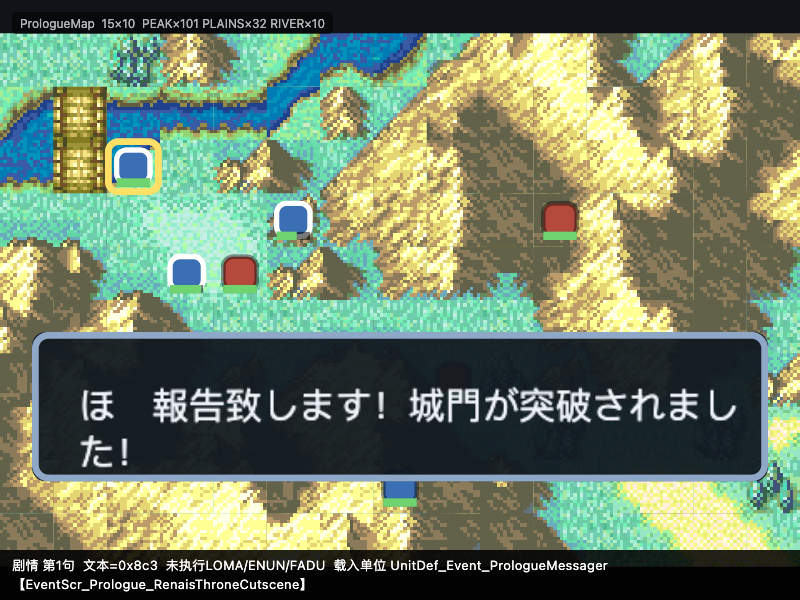
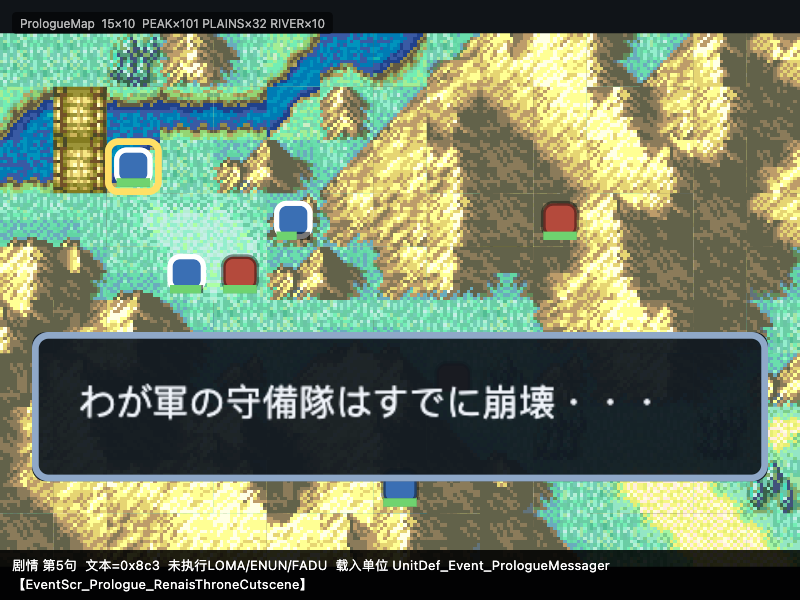
对白分页：原作的对白现在一页一页地演
## 发现问题的过程

截图里序章开场那句对白**只显示两行就被裁掉**，而原文里既没有 `[LF]`
也没有 `[A]` —— 看起来像是引擎的问题。

于是去读反编译项目的 `texts/jp_textdefs.txt` —— **它把控制码的语义也写下来了**：

    [X] = 0     [LF] = 1    [CR] = 2    [A] = 3
    [....] = 4 …  [OpenFarLeft] = 8 …
    [LoadFace] = 16   [ClearFace] = 17   [NormalPrint] = 18 …

`[A]` 是**等玩家按键**，`[CR]` 是**换页**。

再回头看那条消息，它其实**本来就有 `[A]`**：

    [OpenMidLeft][LoadFace][0152]…[OpenMidRight]ほ　報告致します！[A][CloseSpeechSlow]…

**原作是按 `[A]` 分页的。** 我那"一段长文本"是好几页被我一口气画进了两行里。

## 关键：我甚至不知道"分页"是个概念

不是实现错了，是**我不知道有这回事**。直到去读了控制码定义文件。

这和前面几次是同一类：**信息一直都在（反编译项目连控制码语义都写下来了），
我只是没去找。**

## 改法

`GameMessage.pages` —— 按 `[A]` / `[CR]` 把正文切成多页，
每页是纯文字（控制码去掉、`[LF]` 保留为换行）。

`Scene.textShow` 一页一页地 `await onEvent(ShowText(page: ...))`，
每页之后 `await WaitForInput` —— **每一页都要玩家按键**（原作的节奏）。

## 测试（4 条）

    * 序章开场那条消息**不止一页**（就是它撑爆了框）
    * 每一页都不含残留控制码
    * 分页不丢内容（拼起来等于纯文字）
    * `[A]` 与 `[CR]` 都算分页标记

## 验证

截图确认：按 4 次 confirm 后显示**第 5 页**「わが軍の守備隊はすでに崩壊・・・」，
HUD 显示「剧情 第5句  文本=0x8c3」。

（顺带记一个坑：推进对白要用 `confirm`，`dialogue` 在场景已运行时是空操作 ——
第一次截图没变化就是这个原因。）

## 仍未做

`SENQUEUE1` / `DISAX` / `LOMA` / `FADU` 等 9 种指令仍是占位（HUD 里列着），
以及立绘还没接图集。

Changed region(s): [[0.0938, 0.63, 0.9375, 0.78], [0.0625, 0.93, 0.7812, 0.96]]

diff --git a/test/core/scene_script_test.dart b/test/core/scene_script_test.dart
@@ -120,4 +120,58 @@ void main() {
       expect(withDollar.first.plain.contains(r'$0152'), isFalse);
     });
   });
+
+  _pagingGroup();
+}
+
+// ---------------------------------------------------------------------------
+// 分页：FE 的文本用 `[A]`（等按键）/ `[CR]`（换页）把正文切成多页。
+//
+// 我第一版**没有分页**，把整条消息一口气画进两行的框里，
+// 结果只显示前两行、后面全被裁掉。而当时甚至没意识到"分页"是个概念 ——
+// 直到去读反编译项目的 `texts/jp_textdefs.txt`（它把控制码语义也写下来了）。
+// ---------------------------------------------------------------------------
+void _pagingGroup() {
+  group('文本分页', () {
+    late GameTexts texts;
+
+    setUpAll(() {
+      texts = GameTexts.parse(
+          File('tools/pipeline/out/tables/texts.json').readAsStringSync());
+    });
+
+    test('序章开场那条消息**不止一页**（就是它撑爆了框）', () {
+      final m = texts.byId(0x8c3);
+      expect(m, isNotNull);
+      expect(m!.pages.length, greaterThan(1),
+          reason: '这条消息原本就分了好几页 —— 不分页就会溢出');
+    });
+
+    test('每一页都不含控制码，`[LF]` 保留为换行', () {
+      for (final m in texts.messages.values.take(500)) {
+        for (final p in m.pages) {
+          expect(p.contains('['), isFalse, reason: '页里不该残留控制码');
+        }
+      }
+    });
+
+    test('分页不丢内容（拼起来等于纯文字去掉换行）', () {
+      final m = texts.byId(0x8c3)!;
+      final joined = m.pages.join().replaceAll('\n', '');
+      final plain = m.plain.replaceAll('\n', '');
+      expect(joined, plain, reason: '分页只是切分，不该丢字');
+    });
+
+    test('`[A]` 与 `[CR]` 都算分页标记', () {
+      final keys = texts.messages.values
+          .expand((m) => m.segments)
+          .whereType<TextControl>()
+          .where((c) => c.isPageBreak)
+          .map((c) => c.name)
+          .toSet();
+      expect(keys, contains('A'));
+      expect(keys.any((k) => k == 'CR'), isTrue,
+          reason: '应当有 `[CR]`（换页）出现');
+    });
+  });
 }

diff --git a/lib/core/event/game_text.dart b/lib/core/event/game_text.dart
@@ -36,7 +36,11 @@ class TextControl extends TextSegment {
   final int? arg;
 
   /// 渲染层真正需要的语义
+  /// `[A]` —— 等玩家按键。文本里的"这一页结束了"。
   bool get isWaitForKey => name == 'A';
+
+  /// `[CR]` —— 换页（清屏重画）。
+  bool get isPageBreak => name == 'A' || name == 'CR';
   bool get isLineBreak => name == 'LF';
   bool get isLoadFace => name == 'LoadFace';
   bool get isFacePosition => name.startsWith('Open') || name.startsWith('Close');
@@ -66,6 +70,41 @@ class GameMessage {
       .trim();
 
   bool get isEmpty => plain.trim().isEmpty;
+
+  /// **分页**。
+  ///
+  /// FE 的文本是一串控制码：`[A]`（= 3）是"等玩家按键"，`[CR]`（= 2）是
+  /// 换页。一条消息里常常有好几页 —— 序章开场那条 0x8c3 就有。
+  ///
+  /// ⚠ 我第一版**没有分页**，把整条消息一口气画进两行的框里，
+  /// 结果只显示前两行、后面全被裁掉（截图里一眼可见）。
+  /// 而当时我甚至没意识到"分页"是个概念 —— 直到去读
+  /// `texts/jp_textdefs.txt`（反编译项目把控制码的语义也写下来了）。
+  ///
+  /// 返回每一页的纯文字（已去掉控制码、`[LF]` 已换成换行）。
+  List<String> get pages {
+    final out = <String>[];
+    final buf = StringBuffer();
+    for (final seg in segments) {
+      if (seg is TextRun) {
+        buf.write(seg.text);
+      } else {
+        final c = seg as TextControl;
+        if (c.isPageBreak) {
+          // `[A]` / `[CR]` 都是"这一页到此为止"
+          out.add(buf.toString().trim());
+          buf.clear();
+        } else if (c.isLineBreak) {
+          buf.write('\n');
+        }
+        // 其余控制码（立绘位置、加载脸…）不进正文
+      }
+    }
+    final tail = buf.toString().trim();
+    if (tail.isNotEmpty) out.add(tail);
+    // 全空的页（连续两个 `[A]`）去掉
+    return out.where((p) => p.isNotEmpty).toList();
+  }
 }
 
 /// 全部游戏文本

diff --git a/lib/core/event/scene.dart b/lib/core/event/scene.dart
@@ -39,14 +39,28 @@ class ShowText extends SceneEvent {
     required this.message,
     required this.scriptName,
     required this.step,
+    this.page,
+    this.pageIndex = 0,
+    this.pageCount = 1,
   });
 
   final GameMessage message;
   final String scriptName;
   final int step;
 
+  /// **这一页**的文字（一条消息可能有好几页，见 `GameMessage.pages`）
+  final String? page;
+  final int pageIndex;
+  final int pageCount;
+
+  /// 实际要显示的文字
+  String get text => page ?? message.plain;
+
+  bool get hasMorePages => pageIndex + 1 < pageCount;
+
   @override
-  String toString() => 'ShowText(0x${message.id.toRadixString(16)})';
+  String toString() => 'ShowText(0x${message.id.toRadixString(16)}'
+      '${pageCount > 1 ? ' 第${pageIndex + 1}/$pageCount页' : ''})';
 }
 
 /// 等玩家按键（文本里有 `[A]` 时自动产生）
@@ -240,12 +254,29 @@ class Scene {
       missing.add('text:0x${textId.toRadixString(16)}');
       return;
     }
-    await onEvent(ShowText(
-      message: m,
-      scriptName: currentScript,
-      step: 0,
-    ));
-    if (m.segments.whereType<TextControl>().any((c) => c.isWaitForKey)) {
+    // ⚠ **一页一页地演**，不是整条消息一口气画出来。
+    //
+    // 一条消息里 `[A]` / `[CR]` 把正文切成多页（序章开场那条就有好几页）。
+    // 第一版不分页，结果只显示前两行、后面全被裁掉。
+    final pages = m.pages;
+    if (pages.isEmpty) {
+      await onEvent(ShowText(
+        message: m,
+        scriptName: currentScript,
+        step: 0,
+      ));
+      return;
+    }
+    for (var i = 0; i < pages.length; i++) {
+      await onEvent(ShowText(
+        message: m,
+        scriptName: currentScript,
+        step: 0,
+        page: pages[i],
+        pageIndex: i,
+        pageCount: pages.length,
+      ));
+      // 每一页都要玩家按键才继续（最后一页也一样 —— 原作的节奏）
       await onEvent(WaitForInput(currentScript, 0));
     }
   }

diff --git a/lib/game/scene_view.dart b/lib/game/scene_view.dart
@@ -89,7 +89,8 @@ class SceneView {
       if (seg.isLoadFace && seg.arg != null) face = seg.arg;
     }
     show(
-      text: e.message.plain,
+      // 用**这一页**的文字，不是整条消息
+      text: e.text,
       virtualSize: virtualSize,
       hostFace: face,
     );
